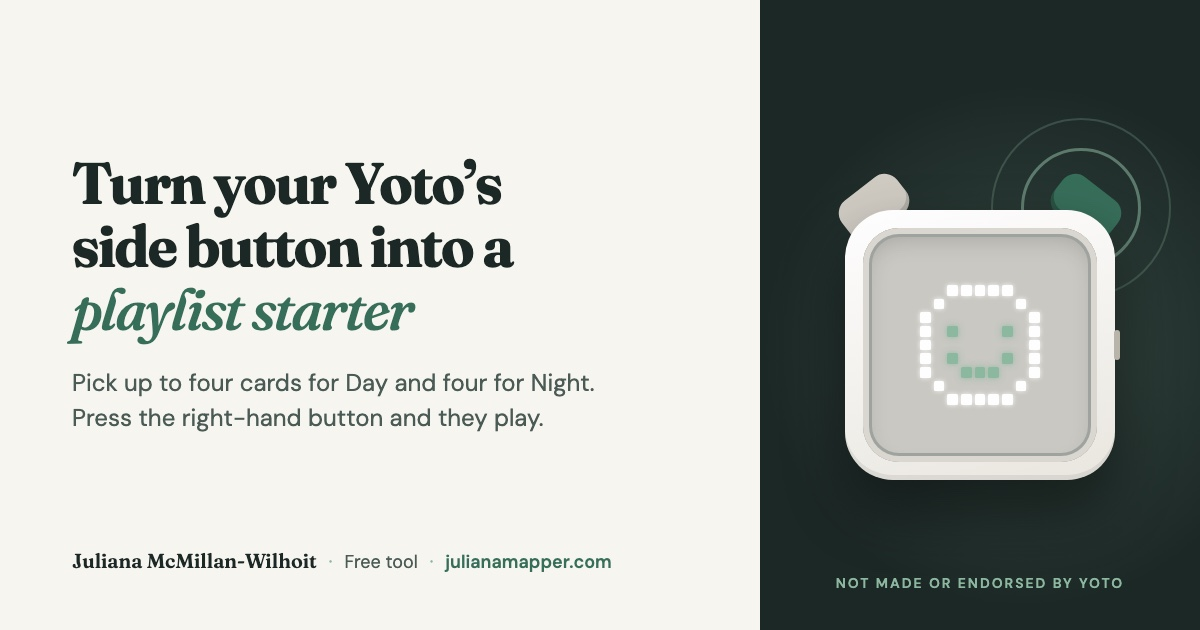
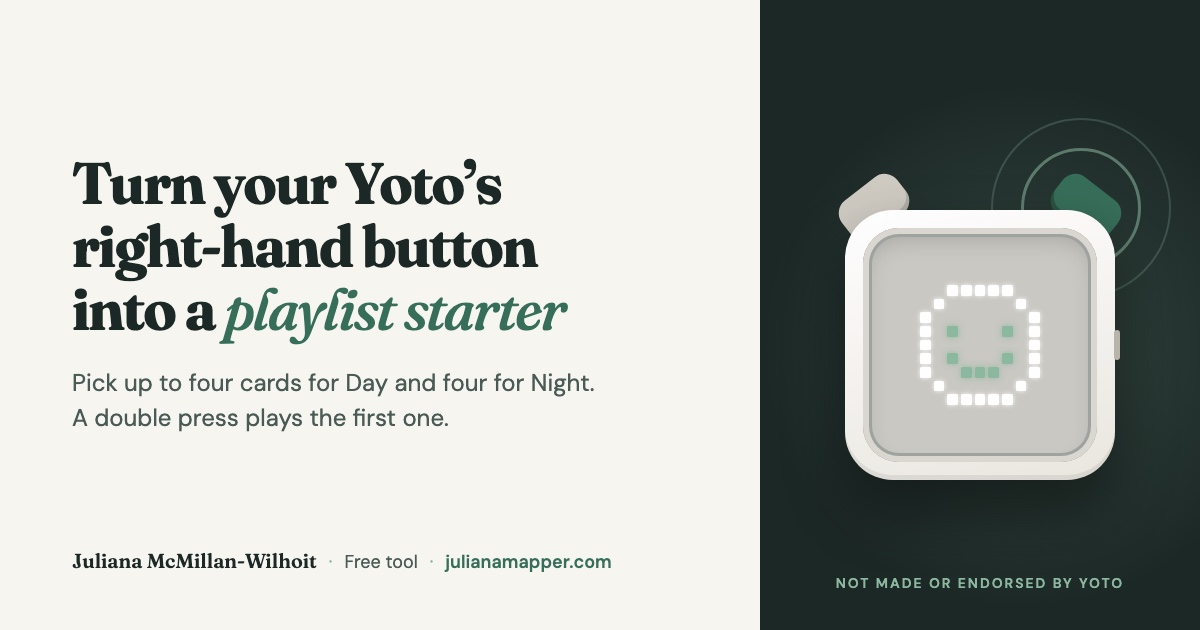
Update Yoto share image: right-hand button wording, no card

Changed region(s): [[0.0617, 0.3317, 0.4933, 0.5429], [0.0617, 0.6333, 0.4625, 0.6937]]

diff --git a/share-images/og-yoto.html b/share-images/og-yoto.html
@@ -35,8 +35,8 @@ h1 em{font-style:italic;font-weight:500;color:var(--accent)}
 </style></head><body>
 <div class="text">
   <div>
-    <h1>Turn your Yoto&rsquo;s<br>side button into a<br><em>playlist starter</em></h1>
-    <p class="sub">Pick up to four cards for Day and four for Night. Press the right-hand button and they play.</p>
+    <h1>Turn your Yoto&rsquo;s<br>right-hand button<br>into a <em>playlist starter</em></h1>
+    <p class="sub">Pick up to four cards for Day and four for Night. A&nbsp;double press plays the first one.</p>
   </div>
   <div class="foot"><b>Juliana McMillan-Wilhoit</b><span class="dot">&middot;</span><span>Free tool</span><span class="dot">&middot;</span><span class="url">julianamapper.com</span></div>
 </div>
